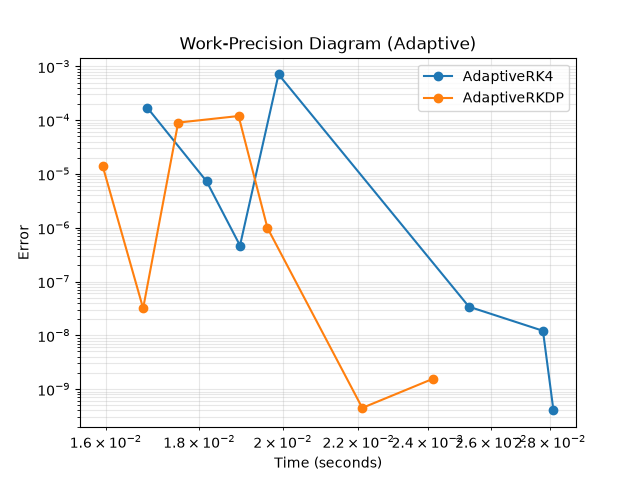
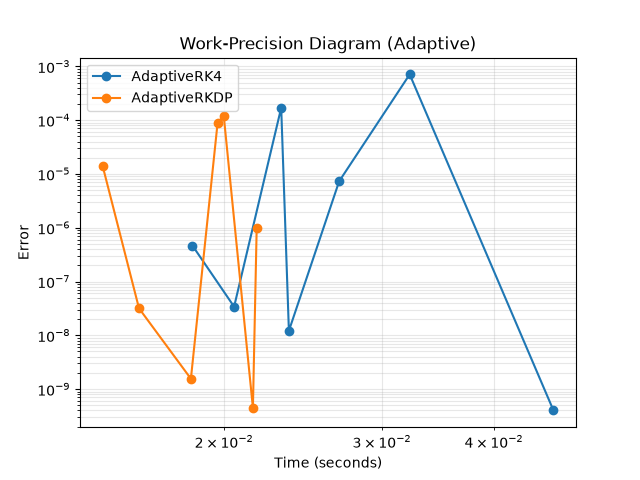
Included README and removed unnecessary 'src' folder

diff --git a/README.md b/README.md
@@ -1,0 +1,71 @@
+# ODE Integration Library
+
+A small, header-only C++20 library for numerically integrating ordinary differential equations (ODEs) and stochastic differential equations (SDEs).
+
+## Features
+
+- **Deterministic steppers**: Euler, RK4, Dormand-Prince (RKDP)
+- **Adaptive step-size steppers**: Adaptive RK4, Adaptive RKDP
+- **Stochastic steppers**: Euler-Maruyama, Milstein
+- Works with scalar states (`double`) or vector states (via [Eigen](https://eigen.tuxfamily.org/))
+- Header-only — just include and go
+
+## Layout
+
+```
+include/odelib/
+  integrate.hpp        # generic integrate() driver functions
+  steppers/             # individual stepper implementations
+examples/               # small runnable examples for each stepper
+tests/                  # unit tests
+benchmarks/              # convergence/performance benchmarks + plotting scripts
+```
+
+## Requirements
+
+- A C++20 compiler
+- CMake 3.16+
+- Python (only needed to regenerate benchmark plots)
+
+## Building
+
+```bash
+cmake -B build
+cmake --build build
+```
+
+This builds the examples, tests, and benchmarks.
+
+## Running tests
+
+```bash
+ctest --test-dir build
+```
+
+## Running benchmarks
+
+```bash
+cmake --build build --target run_benchmarks
+```
+
+This runs all benchmark executables and regenerates the plots in `benchmarks/plots/`.
+
+## Usage
+
+Include a stepper and the `integrate` driver, then call `odelib::integrate`:
+
+```cpp
+#include "odelib/steppers/rk4.hpp"
+#include "odelib/integrate.hpp"
+
+auto decay = [](double t, double y) { return -y; };
+
+int main() {
+    double y0 = 1.0, t0 = 0.0, t1 = 5.0, h = 0.01;
+
+    odelib::RK4Stepper<double> stepper;
+    auto ys = odelib::integrate(stepper, decay, y0, t0, t1, h);
+}
+```
+
+Adaptive steppers return a struct with `states`, `times`, and step sizes (`hs`) instead of a plain vector. Stochastic steppers (Euler-Maruyama, Milstein) take a drift and diffusion function in addition to the system function. See the `examples/` directory for complete, runnable versions of each case (decay, harmonic oscillator, GBM, Black-Scholes).
